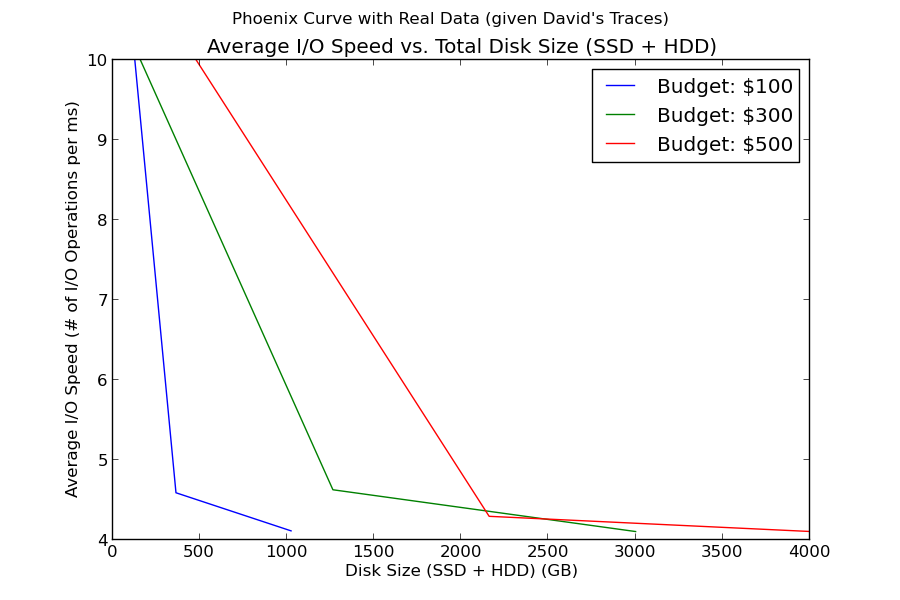
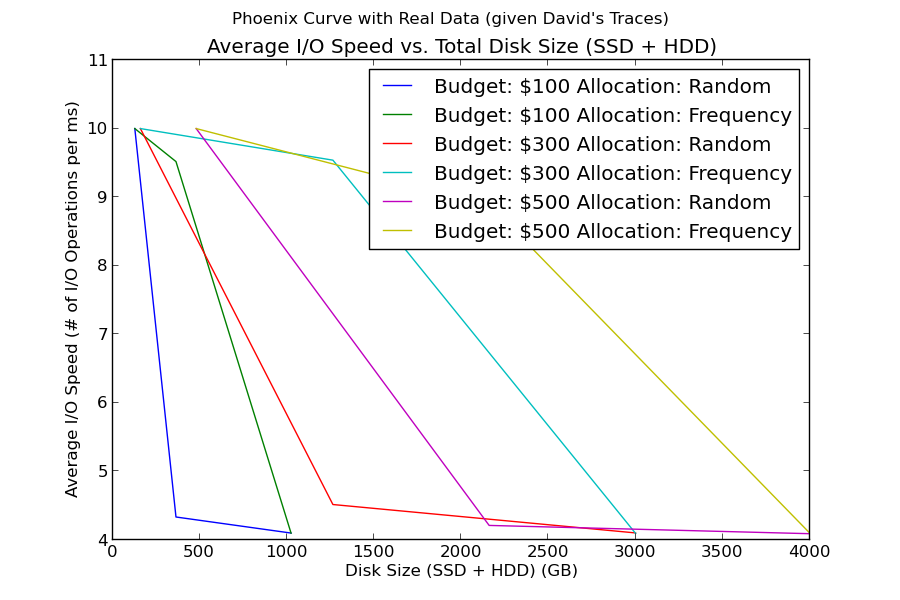
more pictures, added phoneix curve plot method with new PD algorithms

diff --git a/Simulator.py b/Simulator.py
@@ -57,7 +57,7 @@ class Simulator:
 
 def Compare(filename, reporters):
 
-        fig = plt.figure(figsize=(9,9))
+        fig = plt.figure(figsize=(9,11))
         fig.suptitle("Comparision Result")
 
         writes = fig.add_subplot(2,1,1)
@@ -81,7 +81,7 @@ def Compare(filename, reporters):
         plt.savefig(filename)
 
 def generate_phoenix_curve_plot(io_time, ssd_sizes):
-    fig = plt.figure(figsize=(9,9))
+    fig = plt.figure(figsize=(9,11))
     fig.suptitle("Phoenix Curve")
     io_time_plot = fig.add_subplot(2,1,1)
     io_time_plot.set_title("Total I/O vs. ssd buffer size")
@@ -113,16 +113,16 @@ def phoenix_curve_study(traces):
     generate_phoenix_curve_plot(pd_io_times,ssd_sizes)
 
 
-def generate_phoenix_curve_plot_with_real_data(list_io_speeds, pcs):
+def generate_phoenix_curve_plot_with_real_data(list_io_speeds, pcs, allocation_method):
     """
         pd_io_speeds : <List> of <io_speeds>
         pc : An instance of <PhoenixConfiguration>
     """
     
-    filename = 'PhoenixCurve_RealData.png'
+    filename = 'PhoenixCurve_RealData_%s.png' % allocation_method
 
     fig = plt.figure(figsize=(9,6))
-    fig.suptitle("Phoenix Curve with Real Data (given David's Traces)")
+    fig.suptitle("Phoenix Curve with Allocation Method %s" % allocation_method)
 
     io_time_plot = fig.add_subplot(1,1,1)
     io_time_plot.set_title("Average I/O Speed vs. Total Disk Size (SSD + HDD)")
@@ -132,16 +132,13 @@ def generate_phoenix_curve_plot_with_real_data(list_io_speeds, pcs):
     
     for i in range(len(pcs)):
         pc = pcs[i]
-        pd_io_speeds_rand = list_io_speeds[2*i]
-        print pd_io_speeds_rand
-        pd_io_speeds_freq = list_io_speeds[2*i+1]
+        pd_io_speeds = list_io_speeds[i]
         total_sizes = [pc_size[0] + pc_size[1] for pc_size in pc.sizes]
         
-        print("Lengths of io_time arrays:", len(pd_io_speeds_rand), len(pd_io_speeds_freq) )
+        print("Lengths of io_time arrays:", len(pd_io_speeds) )
         print("Length of total_sizes array:", len(total_sizes) )
         
-        io_time_plot.plot( total_sizes, pd_io_speeds_rand, label="Budget: $%s Allocation: Random" % pc.budget )
-        io_time_plot.plot( total_sizes, pd_io_speeds_freq, label="Budget: $%s Allocation: Frequency" % pc.budget )
+        io_time_plot.plot( total_sizes, pd_io_speeds, label="Budget: $%s" % pc.budget )
     io_time_plot.legend()
     plt.savefig(filename)
 
@@ -154,7 +151,8 @@ def phoenix_curve_study_with_real_data(traces):
     pc2 = PhoenixConfiguration(300, [ (0, 160), (1024, 240), (3000, 0) ])
     pc3 = PhoenixConfiguration(500, [ (0, 480), (2000, 160), (4000, 0) ])
     pcs = [pc1, pc2, pc3]
-    list_io_speeds = []
+    list_io_speeds_rand = []
+    list_io_speeds_freq = []
 
     for pc in pcs:
         pd_io_speeds_rand = []
@@ -181,10 +179,11 @@ def phoenix_curve_study_with_real_data(traces):
         print(len(pd_io_speeds_rand) )
         print(len(pd_io_speeds_freq) )
         print(len(pc.sizes) )
-        list_io_speeds.append( pd_io_speeds_rand )
-        list_io_speeds.append( pd_io_speeds_freq )
+        list_io_speeds_rand.append( pd_io_speeds_rand )
+        list_io_speeds_freq.append( pd_io_speeds_freq )
         
-    generate_phoenix_curve_plot_with_real_data(list_io_speeds, pcs)
+    generate_phoenix_curve_plot_with_real_data(list_io_speeds_rand, pcs, 'Random')
+    generate_phoenix_curve_plot_with_real_data(list_io_speeds_freq, pcs, 'Frequency')
     
     
 def drive_type_comparitive_study(traces):
@@ -223,9 +222,9 @@ if __name__ == '__main__':
 
     traces = [trace1]
 
-    drive_type_comparitive_study(traces)
+    #drive_type_comparitive_study(traces)
     # phoenix_curve_study(traces)
-    #phoenix_curve_study_with_real_data(traces)
+    phoenix_curve_study_with_real_data(traces)
 
     
     

diff --git a/VirtualEnvironment.py b/VirtualEnvironment.py
@@ -71,27 +71,33 @@ class VirtualEnvironment:
         # Convert micro second to second
         io_start_time = activity.start_time / 1000000.0
 
-        if activity.access_type == 'R':
+        # Handle activity according to their access_type.
+        # There are some weird cases where io_start_time is older than the most recent one.
+        # We're ignoring such cases.
+        if (activity.access_type == 'R') and (len(self.reporter.read_start_times) == 0 or io_start_time > self.reporter.read_start_times[-1]):
             io_duration = self.ReadFile(activity)
             self.reporter.read_time += io_duration
             self.reporter.read_durations.append(io_duration)
             self.reporter.read_durations_cumulative.append(self.reporter.read_time)
             self.reporter.read_start_times.append(io_start_time)
+            self.reporter.total_io_time += io_duration
+            self.reporter.total_num_activity += 1    
 
-        elif activity.access_type == 'W':
+        elif (activity.access_type == 'W') and (len(self.reporter.read_start_times) == 0 or io_start_time > self.reporter.write_start_times[-1]):
             io_duration = self.WriteFile(activity)
             self.reporter.write_time += io_duration
             self.reporter.write_durations.append(io_duration)
             self.reporter.write_durations_cumulative.append(self.reporter.write_time)
             self.reporter.write_start_times.append(io_start_time)
+            self.reporter.total_io_time += io_duration
+            self.reporter.total_num_activity += 1    
             
         else:
             # NEED TO HANDLE ERROR HERE
             pass
 
         # For any activity type
-        self.reporter.total_io_time += io_duration
-        self.reporter.total_num_activity += 1
+
 
     def ReadFile(self, activity):
         pass
@@ -190,11 +196,11 @@ class SSD(VirtualEnvironment):
         return allocation'''
 
 class PD(VirtualEnvironment):
-    def __init__(self,hdd_size,ssd_size,trace,allocation_type):
-        self.drive_type = "PD"
+    def __init__(self, hdd_size, ssd_size, trace, allocation_type):
+        self.drive_type = "PD (%s)" % allocation_type
         self.HDD = HDD(hdd_size)
         self.SSD = SSD(ssd_size)
-        self.total_size = hdd_size+ssd_size
+        self.total_size = hdd_size + ssd_size
         self.hdd_size = hdd_size
         self.ssd_size = ssd_size
         #VirtualEnvironment.__init__(self)
@@ -215,7 +221,7 @@ class PD(VirtualEnvironment):
         self.allocation = {}        
         if self.allocation_type == 'random':
             for filename in self.trace.filename_freq.keys():
-                if random.random() < self.hdd_size / self.total_size:
+                if random.random() < float(self.hdd_size) / self.total_size:
                     self.allocation[filename] = 'hdd'
                 else:
                     self.allocation[filename] = 'ssd'
